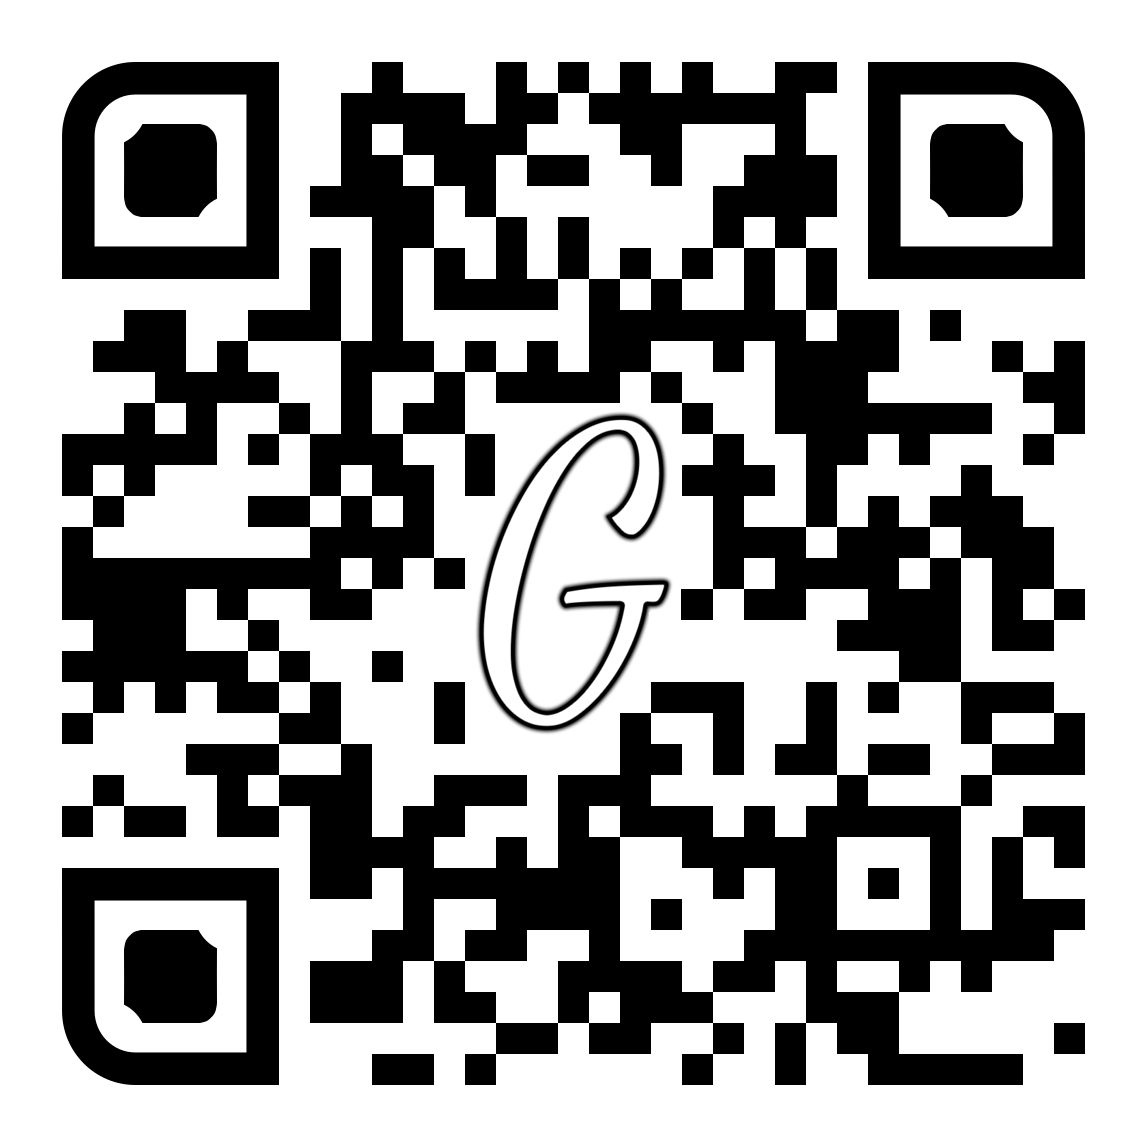
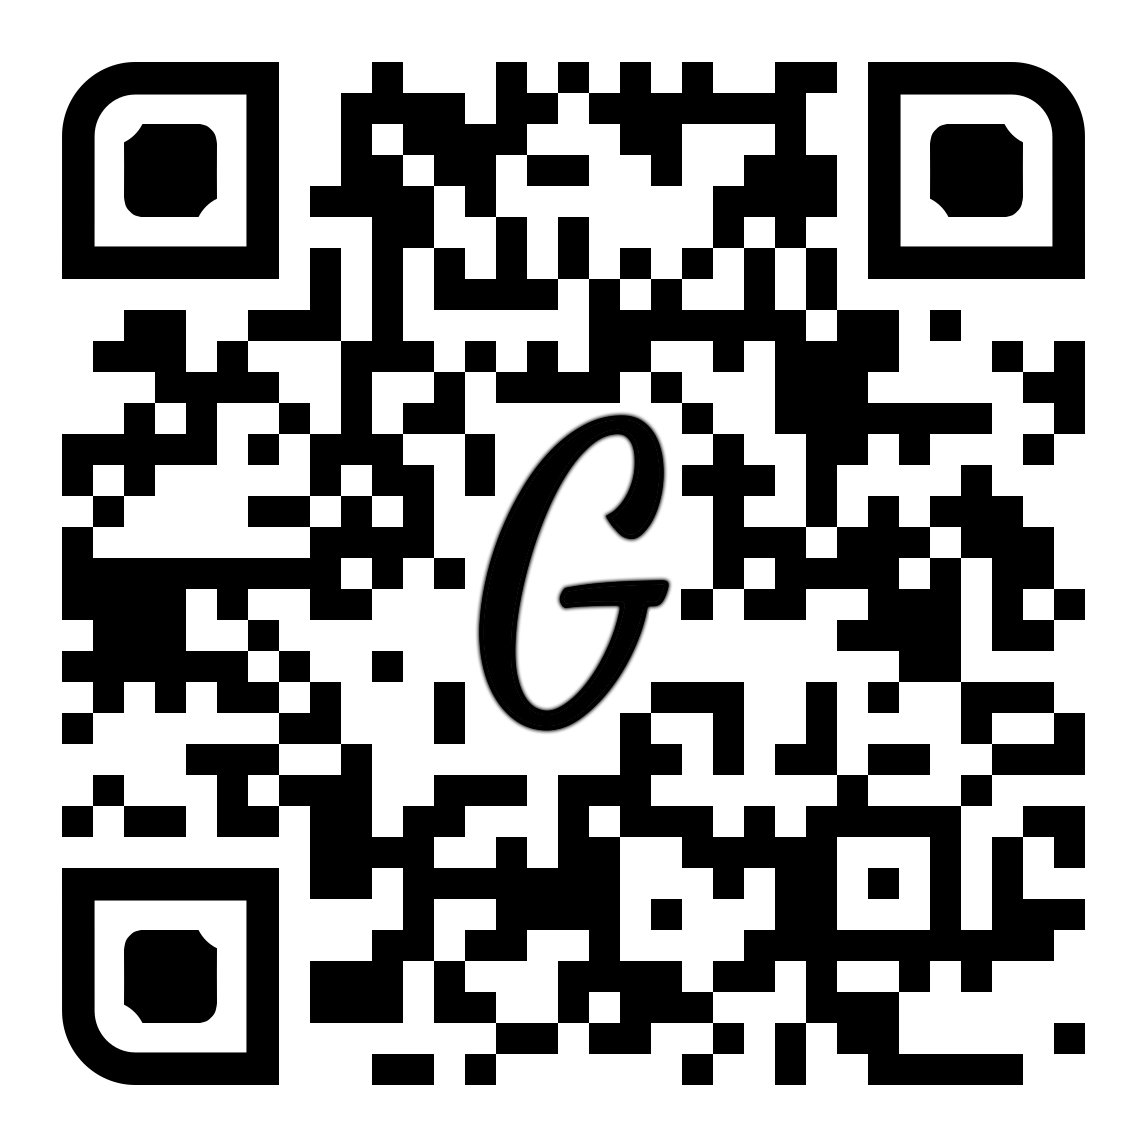
better quality cover

Changed region(s): [[0.3967, 0.3662, 0.5798, 0.6408]]

diff --git a/style.css b/style.css
@@ -168,7 +168,7 @@ INTRO
 #intro-d {
     height:100%;
     /* background-color:rgb(169, 189, 169); */
-    background-image:url(images/trio-cover.png);
+    background-image:url(images/trio-cover.JPG);
     background-size:cover;
     background-position: center;
     background-attachment: fixed;
